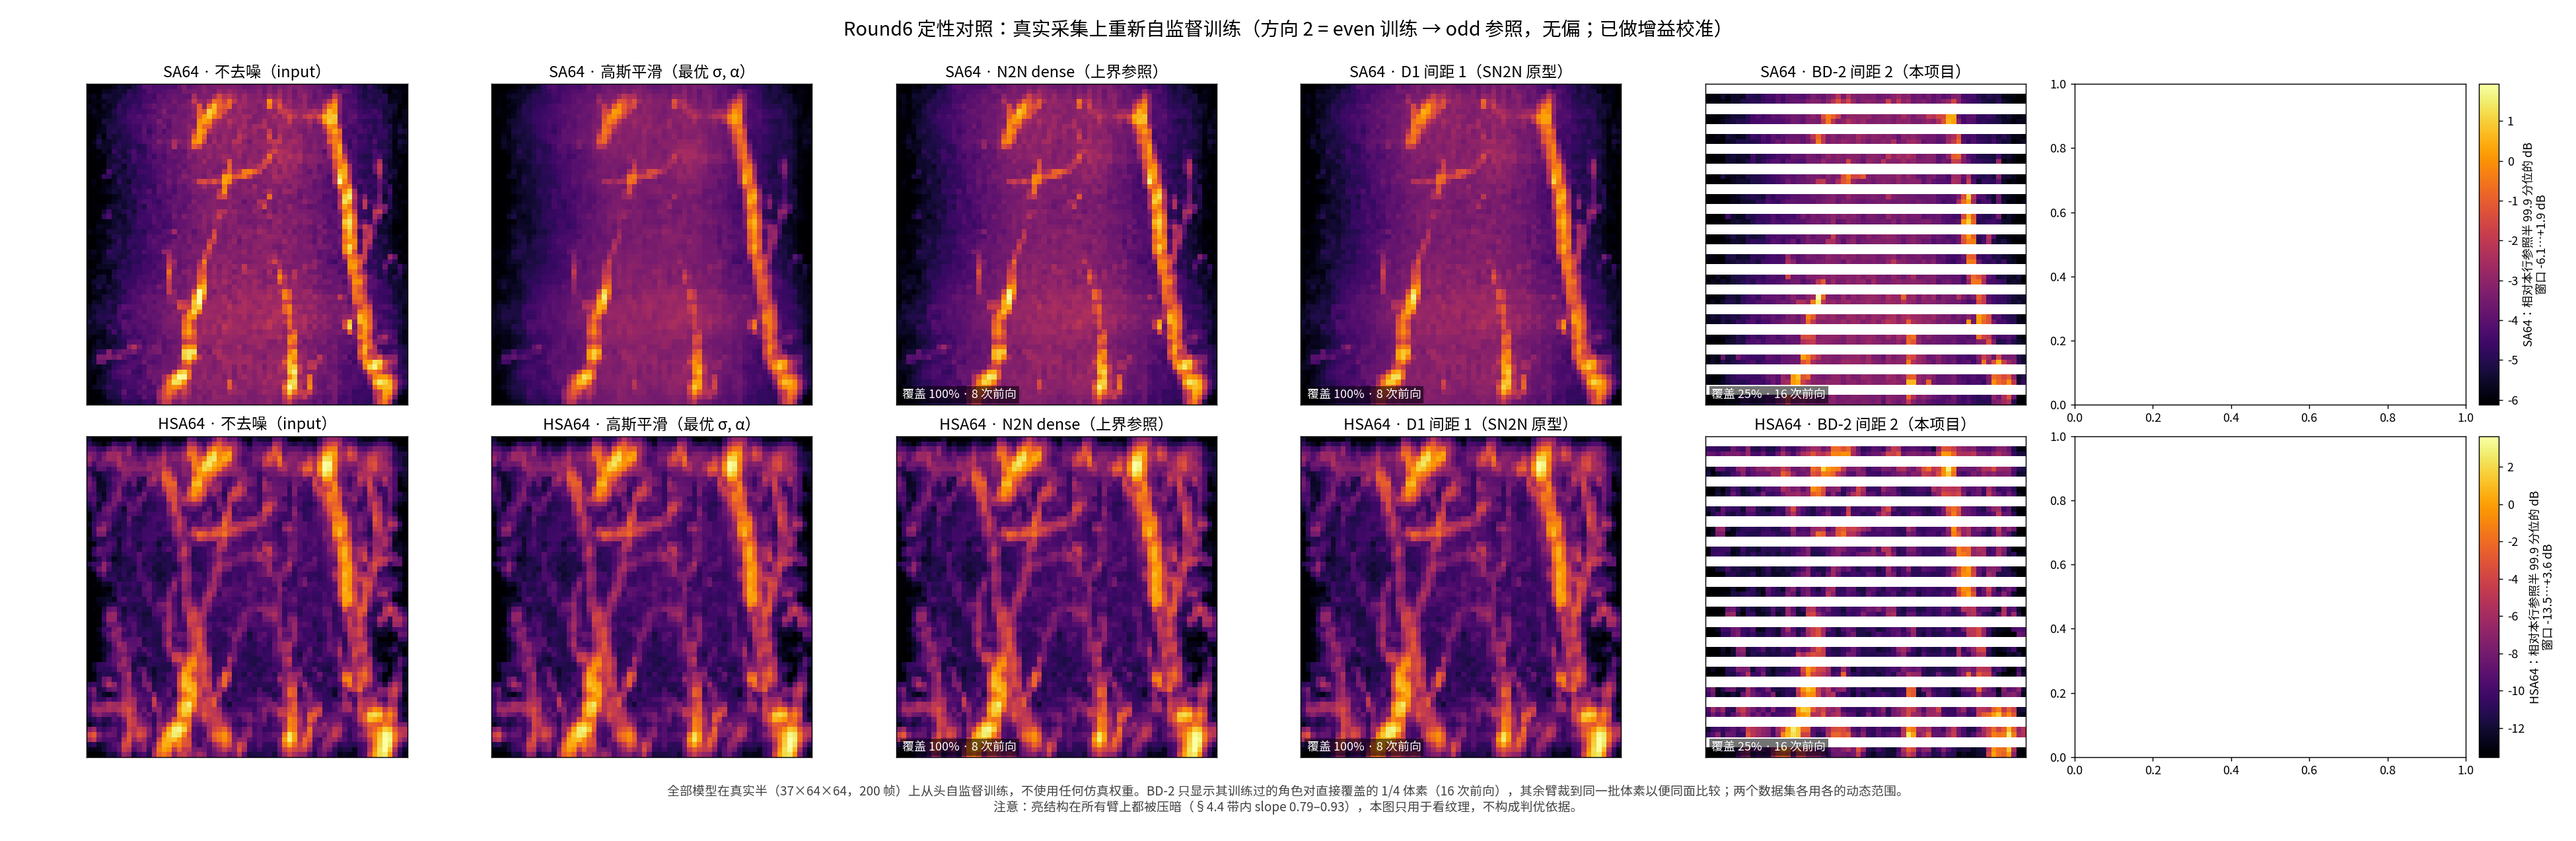
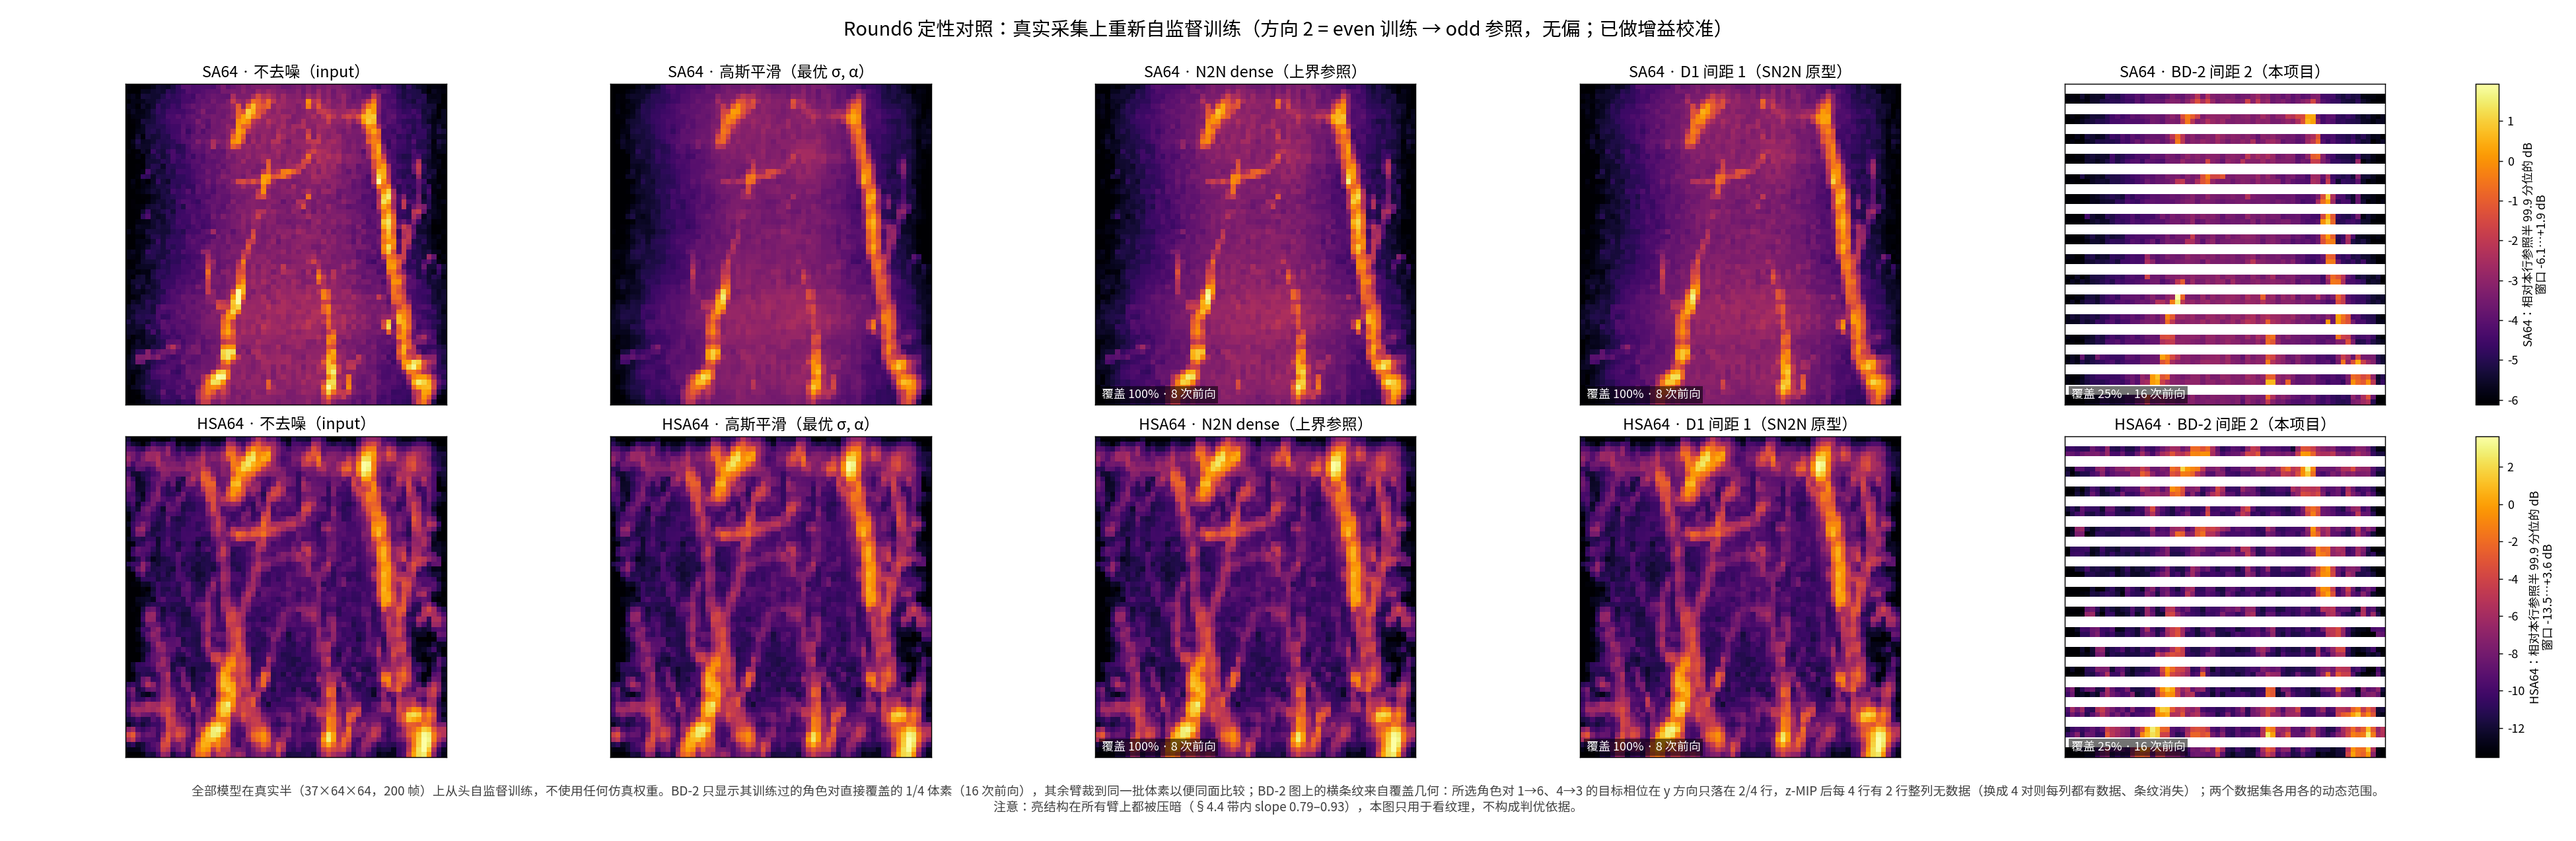
Round6: 修正 MIP 图的空列，并在图注写明 BD-2 横条纹的覆盖几何成因
改动原因（回填记录）：原图按 2×7 布局排，实际只填了 7 列中的 6 列内容，
多出的一列是空的；改为 2×6 并同步挪动 colorbar 的 cax。
另外在图注里补一句 BD-2 臂横条纹的来源——所选角色对 1→6、4→3 的目标相位在 y 方向
只落在 2/4 行，z-MIP 后每 4 行有 2 行整列无数据，属**空洞**而非拼接不一致；
换成 4 对则每列都有数据、条纹消失。不涉及任何数值或判定，Round6 的结论原样不变。

diff --git a/scripts/v3_round6_figure.py b/scripts/v3_round6_figure.py
@@ -111,8 +111,8 @@ def main() -> int:
     series = ("input",) + ARMS
 
     # ---------- 图 1：MIP 对照（方向 2 权重 + 增益校准 = 每臂最好的样子）----------
-    fig, axes = plt.subplots(2, 7, figsize=(30.0, 9.8),
-                             gridspec_kw={"width_ratios": [1, 1, 1, 1, 1, 1, 0.05]})
+    fig, axes = plt.subplots(2, 6, figsize=(30.0, 9.8),
+                             gridspec_kw={"width_ratios": [1, 1, 1, 1, 1, 0.05]})
     for r, seq in enumerate(("SA64", "HSA64")):
         th, eh = "even", "odd"                      # 方向 2
         pd_ref, valid, s = load_half(seq, th)
@@ -162,7 +162,7 @@ def main() -> int:
                                 transform=axes[r, c].transAxes, fontsize=10, color="w",
                                 bbox=dict(fc="k", alpha=0.55, ec="none", pad=2))
 
-        cb = fig.colorbar(im, cax=axes[r, 6])
+        cb = fig.colorbar(im, cax=axes[r, 5])
         cb.set_label(f"{seq}：相对本行参照半 99.9 分位的 dB\n窗口 {lo:+.1f}…{hi:+.1f} dB",
                      fontsize=10)
 
@@ -171,6 +171,8 @@ def main() -> int:
     fig.text(0.5, 0.035,
              "全部模型在真实半（37×64×64，200 帧）上从头自监督训练，不使用任何仿真权重。"
              "BD-2 只显示其训练过的角色对直接覆盖的 1/4 体素（16 次前向），其余臂裁到同一批体素以便同面比较；"
+             "BD-2 图上的横条纹来自覆盖几何：所选角色对 1→6、4→3 的目标相位在 y 方向只落在 2/4 行，"
+             "z-MIP 后每 4 行有 2 行整列无数据（换成 4 对则每列都有数据、条纹消失）；"
              "两个数据集各用各的动态范围。\n"
              "注意：亮结构在所有臂上都被压暗（§4.4 带内 slope 0.79–0.93），本图只用于看纹理，不构成判优依据。",
              ha="center", fontsize=10.5, color="0.25")
